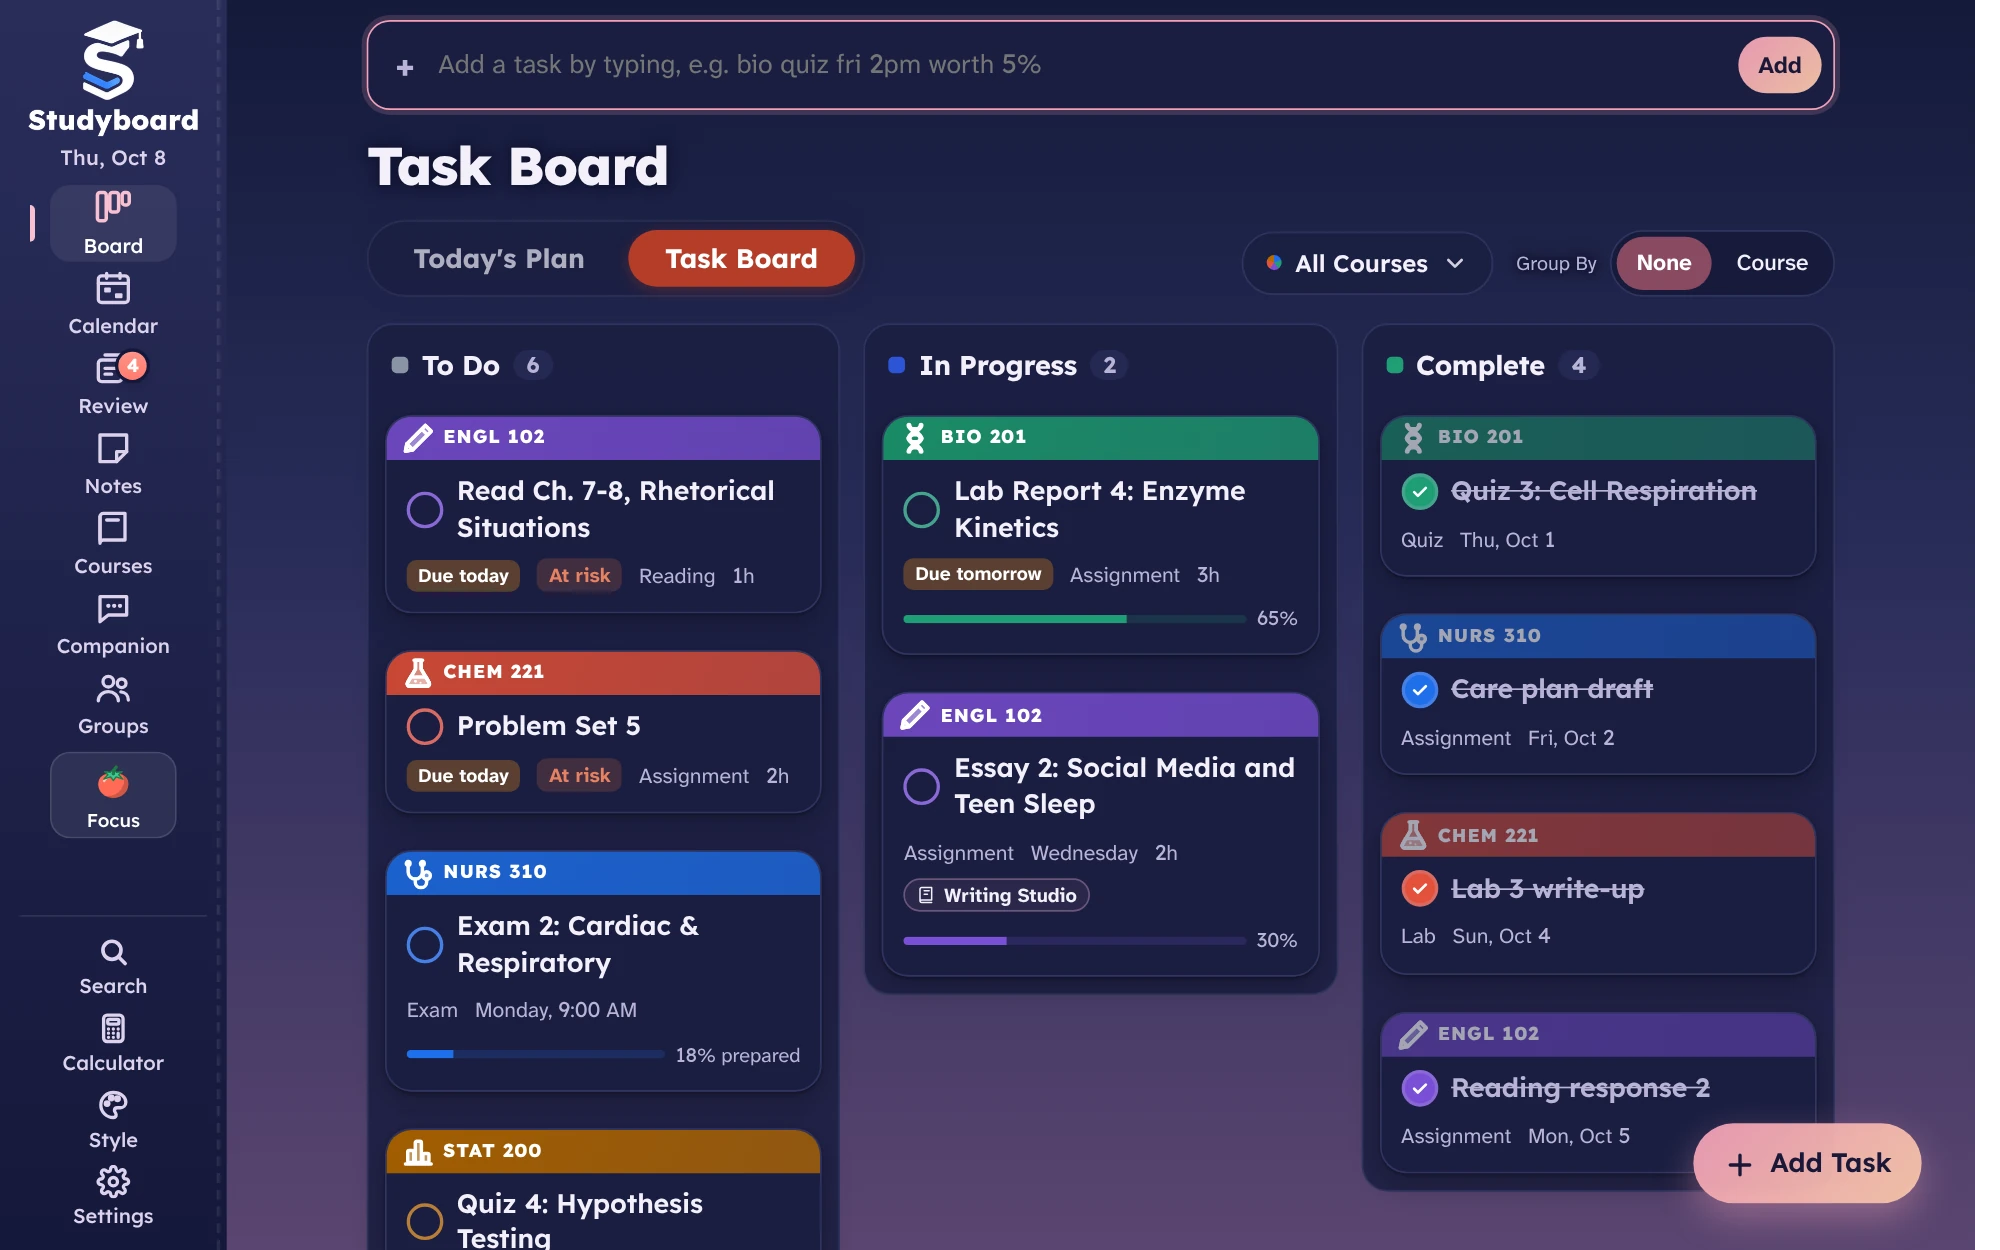
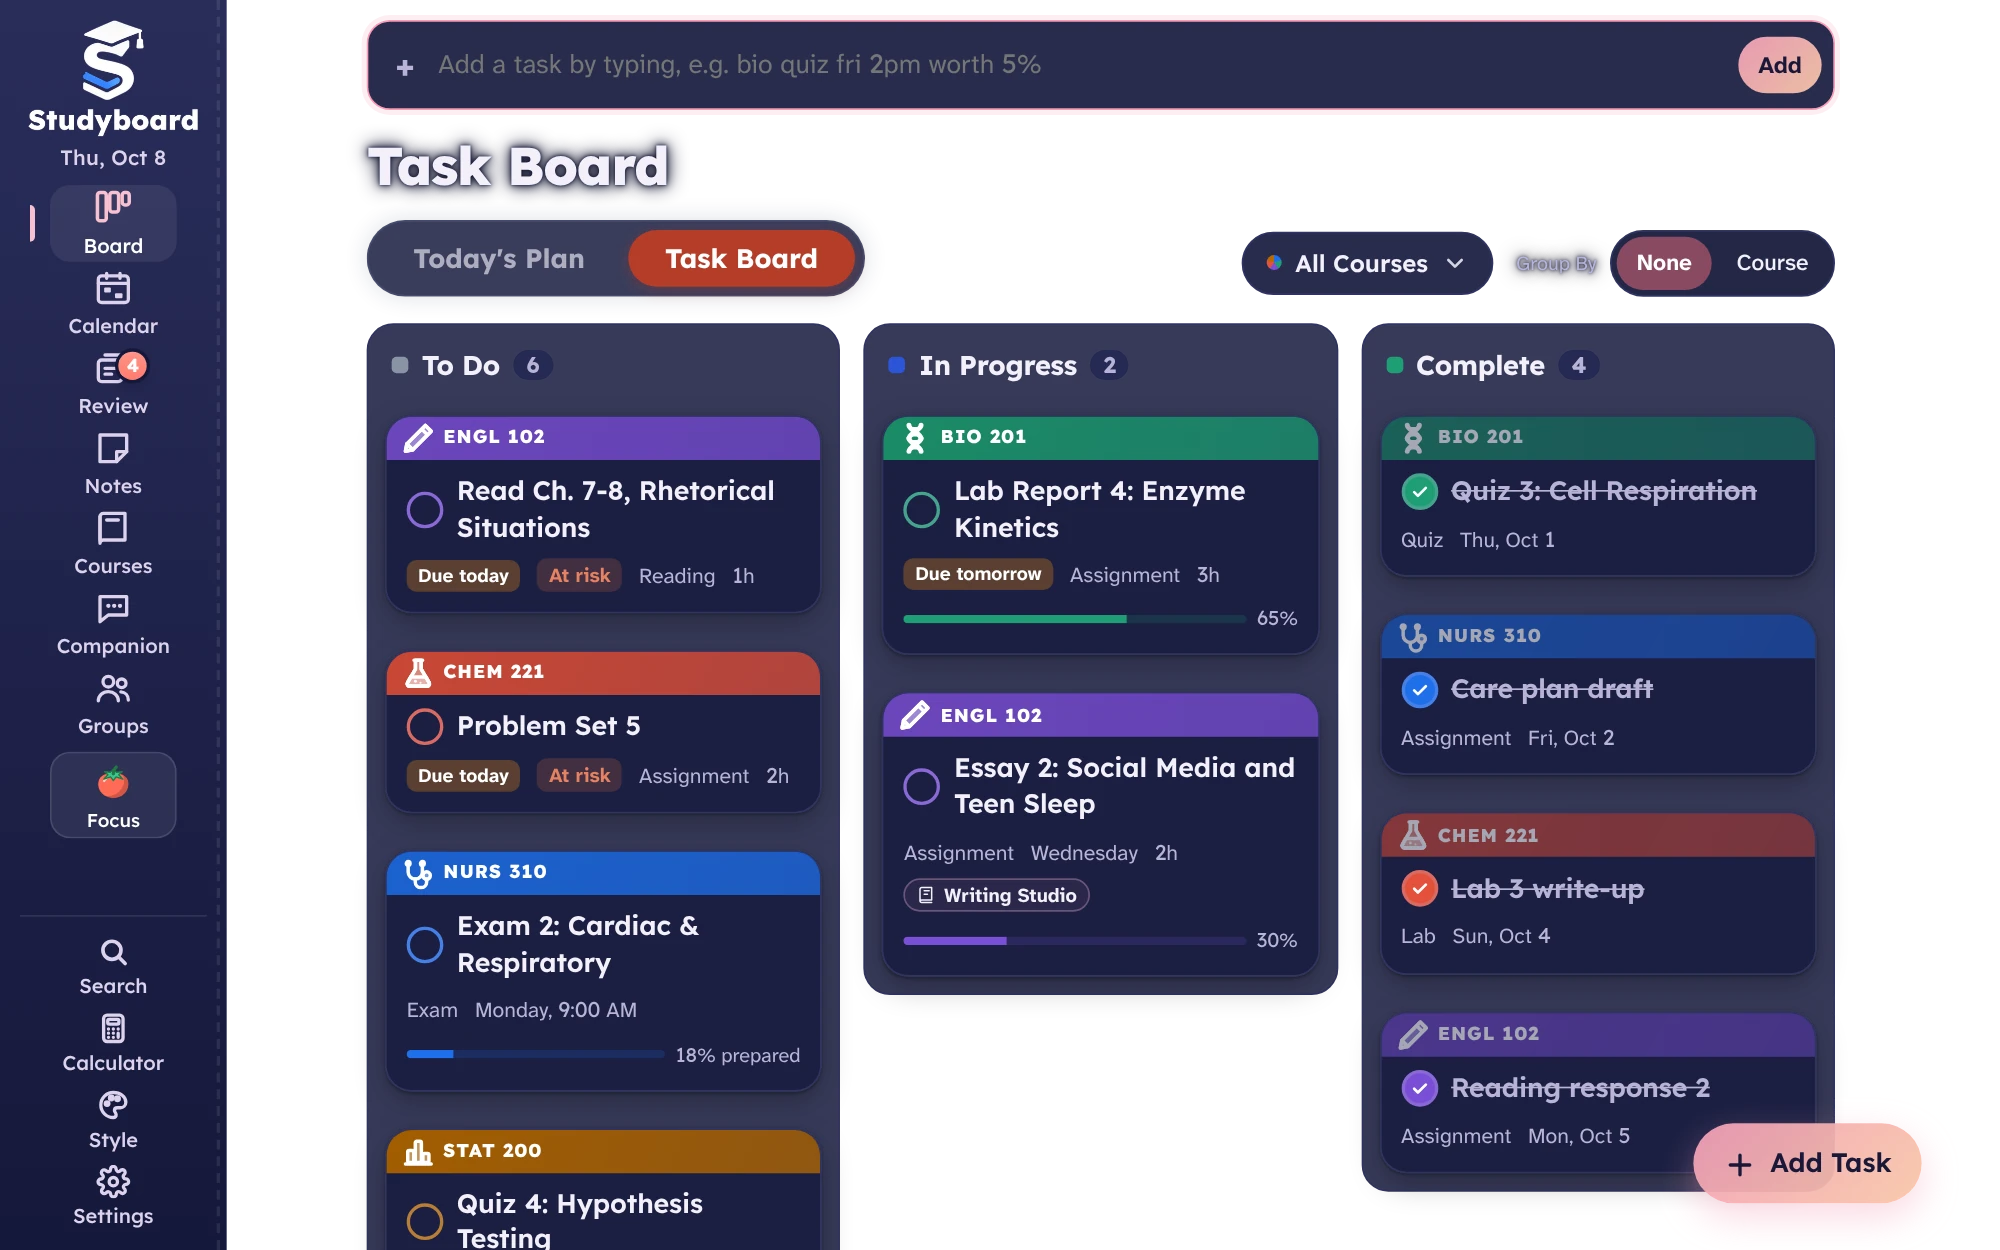
Website: theme tiles show their scene again; the board demo's tick stays inside the card
Scene themes paint their sky on html::before, which the overlay capture
didn't clear, so ten interface pictures (Japan, Amalfi Coast, Sunset,
Nursing, Comp Sci; light and dark) had an opaque background that covered the
live scene a moment after it appeared. The capture clears it now, and those
ten pictures are made again.

Claude-Session: https://claude.ai/code/session_01GobWpSUMBAQyCPGcLrkVqk

diff --git a/website/assets/features.css b/website/assets/features.css
@@ -129,10 +129,12 @@
 .bd-cols>div:first-child i:first-of-type{margin-top:36px}
 .bd-cols>div:nth-child(2) i{margin-top:36px}
 .bd-cols>div:nth-child(3) i:first-of-type{margin-top:36px}
-.bd-card{position:absolute;top:40px;left:18px;width:calc((100% - 40px) / 3 - 12px);height:30px;display:flex;align-items:center;gap:5px;padding:0 6px;border-radius:8px;background:var(--surface);border:1px solid color-mix(in srgb,var(--accent) 45%,var(--line));box-shadow:0 6px 16px rgba(14,42,86,.18);font:700 .66rem var(--display);white-space:nowrap;overflow:hidden;z-index:2}
-.s1 .bd-card{left:calc(12px + (100% - 40px) / 3 + 14px);transform:rotate(-3deg)}
-.s2 .bd-card{left:calc(12px + 2 * (100% - 40px) / 3 + 22px);transform:none;border-color:var(--leaf)}
-.bd-ok{margin-left:auto;font-style:normal;color:var(--leaf);opacity:0;transform:scale(.4)}
+.bd-card{position:absolute;top:40px;left:16px;width:calc((100% - 40px) / 3 - 8px);height:30px;display:flex;align-items:center;gap:4px;padding:0 5px 0 6px;border-radius:8px;background:var(--surface);border:1px solid color-mix(in srgb,var(--accent) 45%,var(--line));box-shadow:0 6px 16px rgba(14,42,86,.18);font:700 .62rem var(--display);white-space:nowrap;overflow:hidden;z-index:2}
+.s1 .bd-card{left:calc(12px + (100% - 40px) / 3 + 12px);transform:rotate(-3deg)}
+.s2 .bd-card{left:calc(12px + 2 * (100% - 40px) / 3 + 20px);transform:none;border-color:var(--leaf)}
+/* the name gives way (…) before the tick does, so the tick always sits inside the card */
+.bd-t{min-width:0;overflow:hidden;text-overflow:ellipsis}
+.bd-ok{flex:none;margin-left:auto;font-style:normal;color:var(--leaf);opacity:0;transform:scale(.4)}
 .s2 .bd-ok{opacity:1;transform:none}
 .s3 .bd-card{box-shadow:var(--shadow)}
 

diff --git a/tools/capture-site-screens.js b/tools/capture-site-screens.js
@@ -157,7 +157,8 @@ const measure = page => page.evaluate(() => {
   return {scene: r(document.getElementById("sceneArt")), comp: r(cp), vw: innerWidth, vh: innerHeight};
 }).then(g => { const k = o => o && {left: +(o.left * SHRINK).toFixed(1), top: +(o.top * SHRINK).toFixed(1), width: +(o.width * SHRINK).toFixed(1), height: +(o.height * SHRINK).toFixed(1)};
   return {scene: k(g.scene), comp: k(g.comp), vw: Math.round(g.vw * SHRINK), vh: Math.round(g.vh * SHRINK)}; });
-const clearArt = page => page.addStyleTag({content: "#sceneArt,.cp-layer,.cp-front,.cp,.cp-bubble{visibility:hidden!important} html,body{background:transparent!important;background-image:none!important}"});
+// (scene themes paint their sky on html::before, so that goes too: left in, it covered the whole live scene on the website's tiles)
+const clearArt = page => page.addStyleTag({content: "#sceneArt,.cp-layer,.cp-front,.cp,.cp-bubble{visibility:hidden!important} html,body,html::before,html::after{background:transparent!important;background-image:none!important}"});
 async function captureOverlays(browser, scheme) {
   for (const th of THEMES) {
     const seed = JSON.parse(JSON.stringify(SEED)); seed.settings.style = {skin: th}; seed.settings.owned = THEMES.map(t => "skin:" + t);

diff --git a/website/index.html b/website/index.html
@@ -125,7 +125,7 @@
         <div class="feat fx" data-fx="board" data-ms="1000,1100,1100,1700">
           <div class="fx-stage s1 s2 s3" aria-hidden="true">
             <div class="bd-cols"><div><b>To Do</b><i></i><i></i></div><div><b>In Progress</b><i></i></div><div><b>Complete</b><i></i><i></i></div></div>
-            <div class="bd-card"><b class="cd c-blue"></b>Calc HW<i class="bd-ok">✓</i></div>
+            <div class="bd-card"><b class="cd c-blue"></b><span class="bd-t">Calc HW</span><i class="bd-ok">✓</i></div>
           </div>
           <h3>Board &amp; Timeline</h3><p>Drag work to Done and see the whole term.</p>
         </div>
